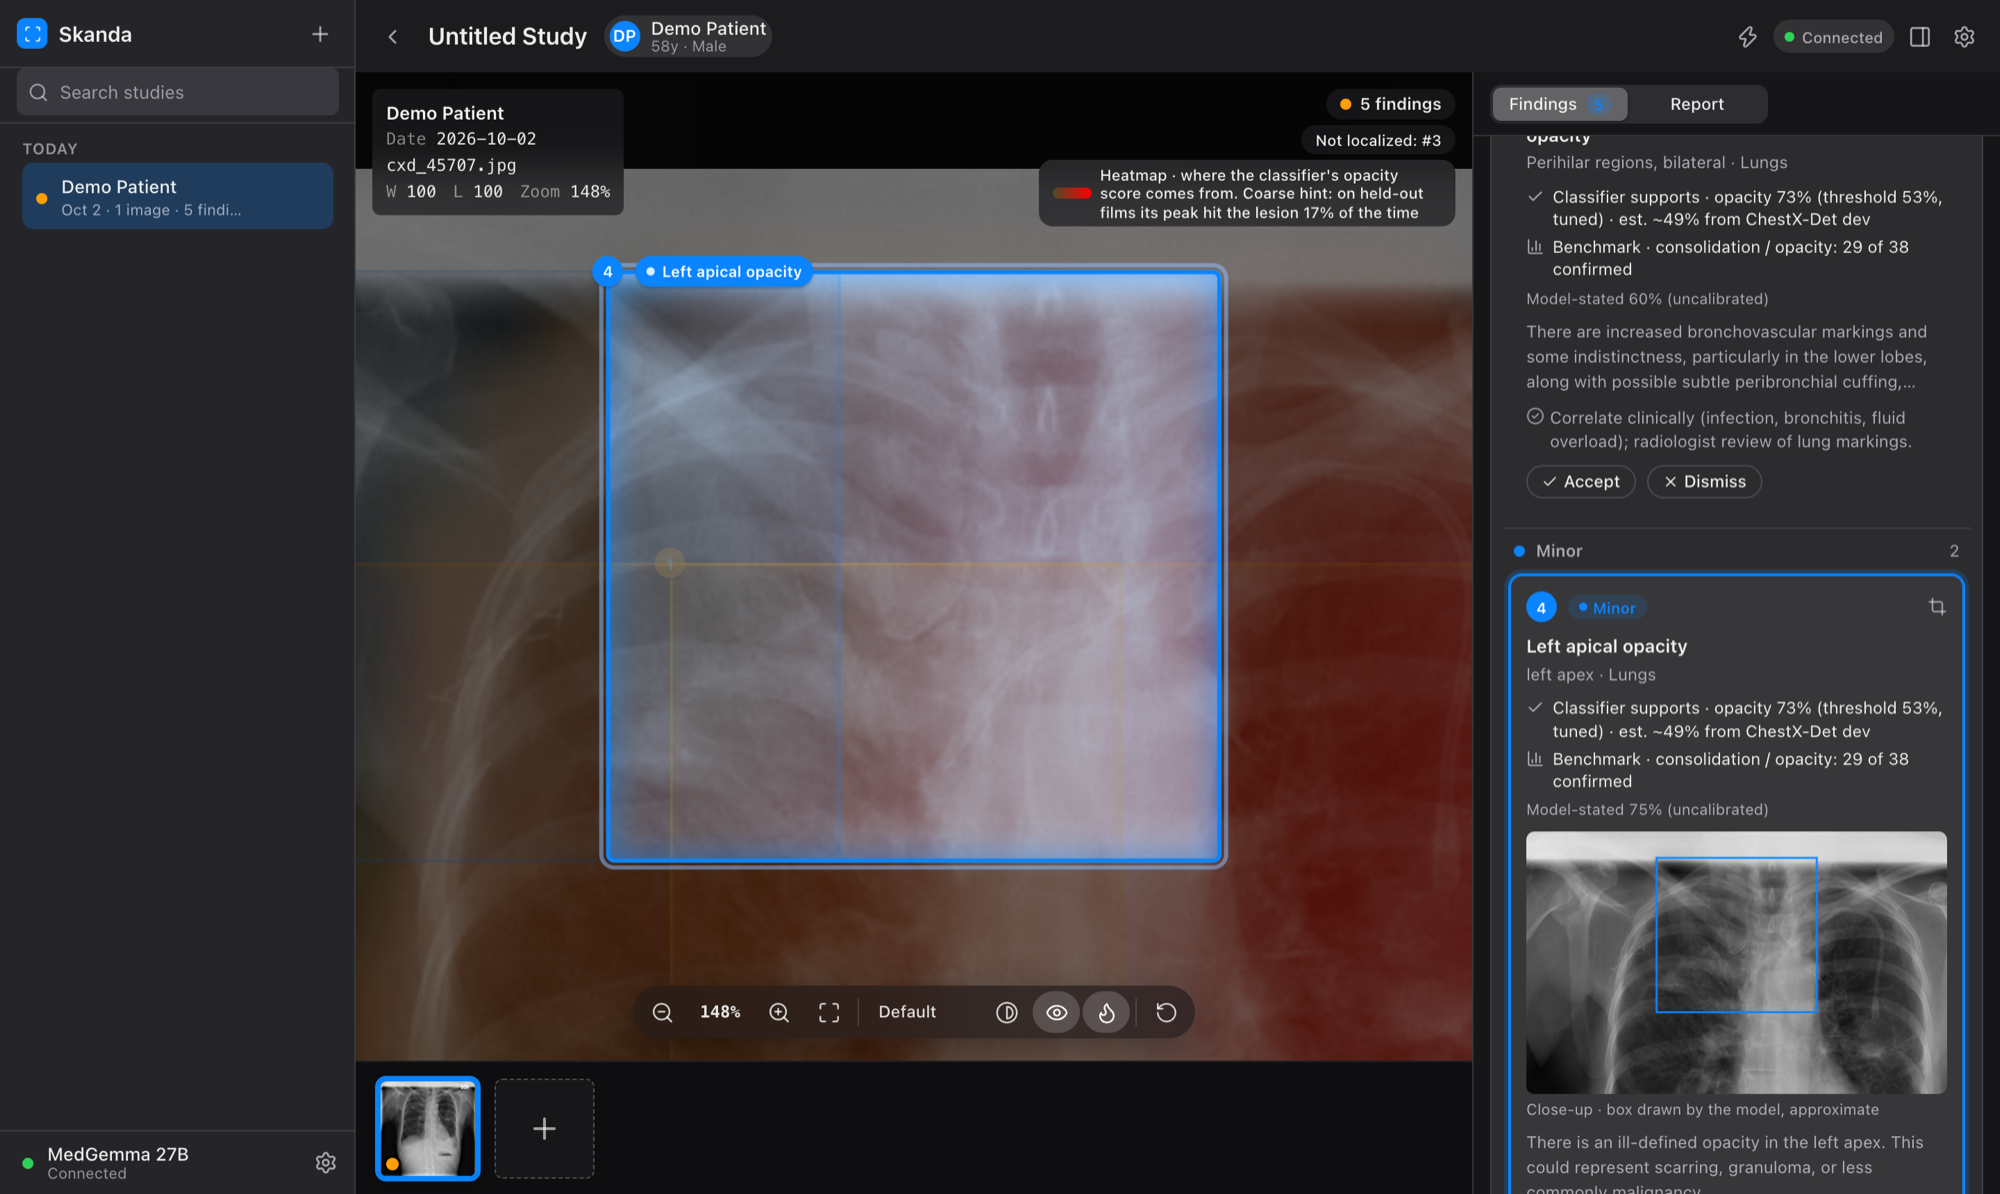
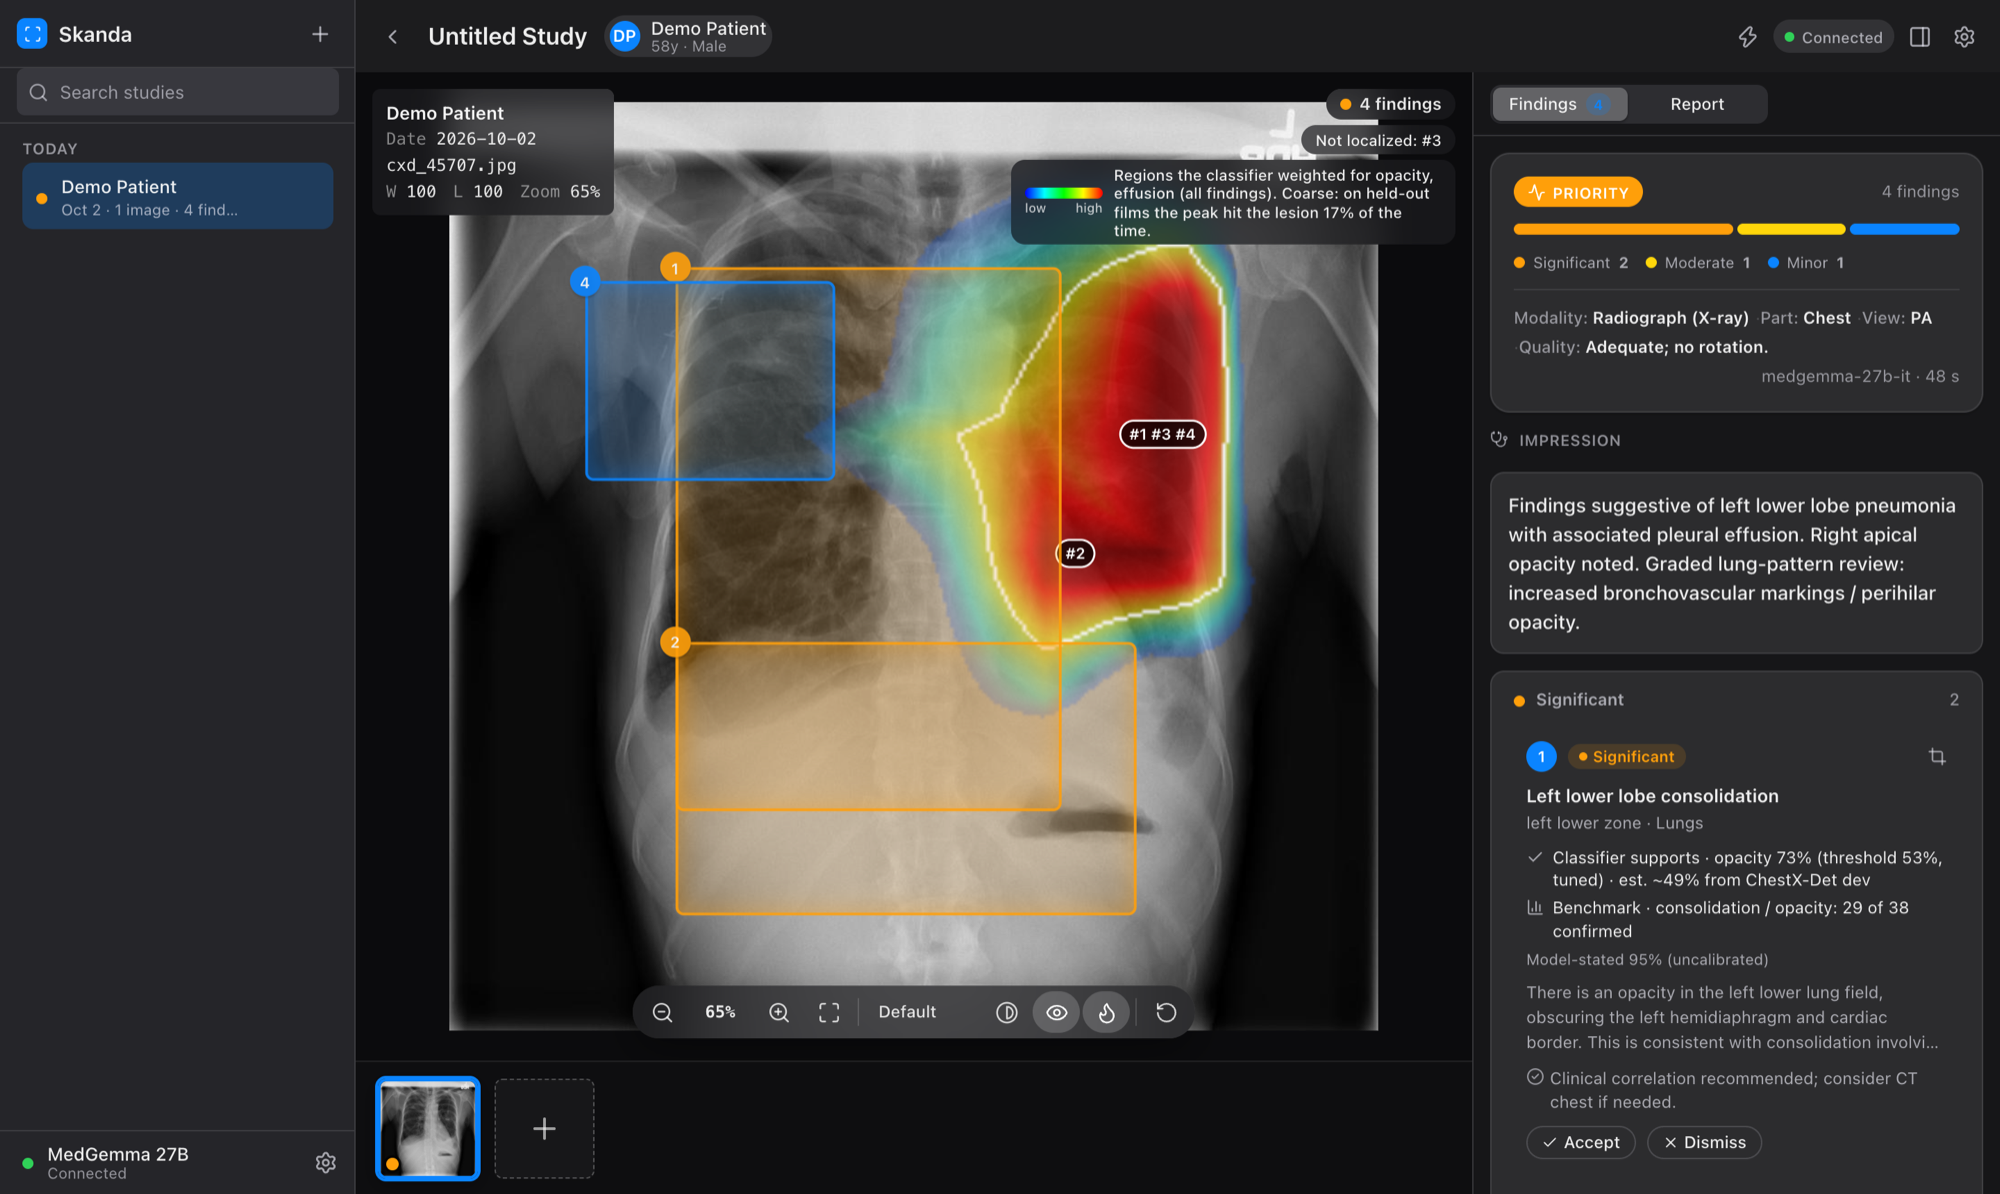
Heatmap on the X-ray: jet colour map, outlined hot regions, labelled peaks
- Viewer paints the classifier heatmap over the film in a jet colour map,
  cold areas clear, hot regions outlined, each type's peak labelled with
  its finding numbers; all findings combined, or the selected one; on by
  default (H toggles). Overlays cached as images, so hover/pan stay cheap.
- txrv_server rescales each map so the in-lung median is zero, leaving the
  stronger half as heat; the peak (localise.py: 26/152, 17%) is unchanged.
- Grad-CAM at denseblock3 tested and not adopted (dev 26% vs 28% for CAM).
- README screenshot and text updated.

diff --git a/app/src/components/viewer/ImageViewer.tsx b/app/src/components/viewer/ImageViewer.tsx
@@ -203,9 +203,10 @@ export function ImageViewer() {
 
   const focusId = selectedId ?? hoveredId
   const focusFinding = findings.find((f) => f.id === focusId)
-  const heatKind = focusFinding?.classifier?.prob != null ? focusFinding.classifier.kind : null
-  const heat = viewer.showHeatmap && heatKind ? analysis?.heatmaps?.[heatKind] : undefined
   const hasHeatmaps = !!analysis?.heatmaps && Object.keys(analysis.heatmaps).length > 0
+  // The selected (or hovered) finding's region, or every abnormal finding's region when nothing is selected.
+  const heatSources = viewer.showHeatmap && hasHeatmaps ? heatmapSources(findings, focusFinding, analysis?.heatmaps ?? {}) : []
+  const heatKinds = [...new Set(heatSources.map((h) => h.kind))]
   const view = image.analysis?.view ?? ''
   const showLat = /\b(PA|AP|posteroanterior|anteroposterior)\b/i.test(view)
   const presetId =
@@ -253,7 +254,7 @@ export function ImageViewer() {
           }}
         />
         {showLat && <div className="vw-lat">R</div>}
-        {heat && <HeatmapLayer heat={heat} />}
+        {heatSources.length > 0 && <HeatmapLayer sources={heatSources} />}
         {viewer.showOverlay && (
           <div className="vw-overlays">
             {/* Larger boxes first so smaller (nested) boxes stay on top and clickable. */}
@@ -312,10 +313,16 @@ export function ImageViewer() {
           )}
           {viewer.showHeatmap && hasHeatmaps && (
             <div className="vw-legend vw-legend-heat">
-              <span className="vw-heat-ramp" aria-hidden="true" />
-              {heat
-                ? `Heatmap · where the classifier's ${heatKind} score comes from. Coarse hint: on held-out films its peak hit the lesion 17% of the time`
-                : 'Heatmap · select a finding the classifier covers'}
+              <span className="vw-heat-scale" aria-hidden="true">
+                <span className="vw-heat-ramp" />
+                <span className="vw-heat-ends"><span>low</span><span>high</span></span>
+              </span>
+              <span>
+                {heatKinds.length
+                  ? `Regions the classifier weighted for ${heatKinds.join(', ')}${focusFinding ? '' : ' (all findings)'}. `
+                  : 'No classifier region for this finding type. '}
+                Coarse: on held-out films the peak hit the lesion 17% of the time.
+              </span>
             </div>
           )}
           {viewer.showOverlay && counts.flagged > 0 && (
@@ -440,33 +447,129 @@ function FindingBox({
   )
 }
 
-/** Classifier heatmap drawn over the classifier's crop of the image; low values stay transparent. */
-function HeatmapLayer({ heat }: { heat: Heatmap }) {
-  const ref = useRef<HTMLCanvasElement>(null)
-  useEffect(() => {
-    const ctx = ref.current?.getContext('2d')
-    if (!ctx) return
-    const bytes = Uint8Array.from(atob(heat.data), (c) => c.charCodeAt(0))
-    const img = ctx.createImageData(heat.w, heat.h)
-    for (let i = 0; i < bytes.length; i++) {
-      const v = bytes[i] / 255
-      const t = Math.max(0, (v - 0.3) / 0.7) // keep the cold majority of the film clear
-      img.data[i * 4] = 255
-      img.data[i * 4 + 1] = Math.round(220 * (1 - t))
-      img.data[i * 4 + 2] = 0
-      img.data[i * 4 + 3] = Math.round(190 * t)
+interface HeatSource {
+  kind: string
+  heat: Heatmap
+  /** Finding numbers (as drawn on the boxes) of this type, for the peak marker. */
+  numbers: number[]
+}
+
+/** Heatmaps to draw: the focused finding's type, or every abnormal, non-dismissed finding's type. */
+function heatmapSources(findings: Finding[], focus: Finding | undefined, maps: Record<string, Heatmap>): HeatSource[] {
+  const pool = focus ? [focus] : findings.filter((f) => f.severity !== 'normal' && !isExcluded(f))
+  const byKind = new Map<string, HeatSource>()
+  for (const f of pool) {
+    const kind = f.classifier?.prob != null ? f.classifier.kind : null
+    const heat = kind ? maps[kind] : undefined
+    if (!kind || !heat) continue
+    const n = findings.indexOf(f) + 1
+    const cur = byKind.get(kind)
+    if (cur) cur.numbers.push(n)
+    else byKind.set(kind, { kind, heat, numbers: [n] })
+  }
+  return [...byKind.values()]
+}
+
+const HEAT_RES = 256 // smoothed canvas resolution; the maps themselves are coarse (7×7 → 32×32)
+const HEAT_FLOOR = 0.2 // below this the film stays clear
+const HEAT_CONTOUR = 0.6 // outline of the hot region
+
+/** Jet colour map, t in 0..1 → [r, g, b]. */
+function jet(t: number): [number, number, number] {
+  const c = (x: number) => Math.round(255 * Math.min(1, Math.max(0, x)))
+  return [c(1.5 - Math.abs(4 * t - 3)), c(1.5 - Math.abs(4 * t - 2)), c(1.5 - Math.abs(4 * t - 1))]
+}
+
+/** Bilinear upsample of one map to HEAT_RES², normalised to its own peak. Cached per map (maps live in the store). */
+const upsampled = new WeakMap<Heatmap, Float32Array>()
+function upsample(heat: Heatmap): Float32Array {
+  const hit = upsampled.get(heat)
+  if (hit) return hit
+  const src = Uint8Array.from(atob(heat.data), (ch) => ch.charCodeAt(0))
+  const out = new Float32Array(HEAT_RES * HEAT_RES)
+  for (let y = 0; y < HEAT_RES; y++) {
+    const fy = Math.min(heat.h - 1, Math.max(0, ((y + 0.5) / HEAT_RES) * heat.h - 0.5))
+    const y0 = Math.floor(fy), y1 = Math.min(heat.h - 1, y0 + 1), wy = fy - y0
+    for (let x = 0; x < HEAT_RES; x++) {
+      const fx = Math.min(heat.w - 1, Math.max(0, ((x + 0.5) / HEAT_RES) * heat.w - 0.5))
+      const x0 = Math.floor(fx), x1 = Math.min(heat.w - 1, x0 + 1), wx = fx - x0
+      const v =
+        (src[y0 * heat.w + x0] * (1 - wx) + src[y0 * heat.w + x1] * wx) * (1 - wy) +
+        (src[y1 * heat.w + x0] * (1 - wx) + src[y1 * heat.w + x1] * wx) * wy
+      out[y * HEAT_RES + x] = v / 255
     }
-    ctx.putImageData(img, 0, 0)
-  }, [heat])
-  const { x, y, w, h } = heat.extent
+  }
+  upsampled.set(heat, out)
+  return out
+}
+
+/** Peak of one map, in the map's 0–1 coordinates. Cached per map. */
+const peaks = new WeakMap<Heatmap, { x: number; y: number }>()
+function peakOf(heat: Heatmap): { x: number; y: number } {
+  const hit = peaks.get(heat)
+  if (hit) return hit
+  const v = upsample(heat)
+  let best = 0
+  for (let i = 1; i < v.length; i++) if (v[i] > v[best]) best = i
+  const p = { x: ((best % HEAT_RES) + 0.5) / HEAT_RES, y: (Math.floor(best / HEAT_RES) + 0.5) / HEAT_RES }
+  peaks.set(heat, p)
+  return p
+}
+
+/** The combined overlay as a PNG data URL, cached by the maps it combines (hover and pan re-render the viewer). */
+const overlays = new Map<string, string>()
+function overlayUrl(sources: HeatSource[]): string {
+  const key = sources.map((s) => `${s.kind}:${s.heat.data}`).join('|')
+  const hit = overlays.get(key)
+  if (hit) return hit
+  const v = new Float32Array(HEAT_RES * HEAT_RES)
+  for (const s of sources) {
+    const m = upsample(s.heat)
+    for (let i = 0; i < v.length; i++) v[i] = Math.max(v[i], m[i])
+  }
+  const canvas = document.createElement('canvas')
+  canvas.width = canvas.height = HEAT_RES
+  const ctx = canvas.getContext('2d')!
+  const img = ctx.createImageData(HEAT_RES, HEAT_RES)
+  for (let i = 0; i < v.length; i++) {
+    const t = v[i]
+    const x = i % HEAT_RES
+    const y = Math.floor(i / HEAT_RES)
+    // Contour: a hot pixel next to a cooler one.
+    const edge =
+      t >= HEAT_CONTOUR &&
+      ((x > 0 && v[i - 1] < HEAT_CONTOUR) || (x < HEAT_RES - 1 && v[i + 1] < HEAT_CONTOUR) ||
+        (y > 0 && v[i - HEAT_RES] < HEAT_CONTOUR) || (y < HEAT_RES - 1 && v[i + HEAT_RES] < HEAT_CONTOUR))
+    const [r, g, b] = edge ? [255, 255, 255] : jet(t)
+    img.data[i * 4] = r
+    img.data[i * 4 + 1] = g
+    img.data[i * 4 + 2] = b
+    img.data[i * 4 + 3] = edge ? 230 : t < HEAT_FLOOR ? 0 : Math.round(60 + 130 * ((t - HEAT_FLOOR) / (1 - HEAT_FLOOR)))
+  }
+  ctx.putImageData(img, 0, 0)
+  const url = canvas.toDataURL()
+  if (overlays.size > 40) overlays.delete(overlays.keys().next().value!)
+  overlays.set(key, url)
+  return url
+}
+
+/**
+ * Classifier heatmap painted over the X-ray in a jet colour map (cold = clear), hot regions outlined, and the
+ * finding numbers at each type's peak. All maps cover the classifier's centre crop (same extent for one image).
+ */
+function HeatmapLayer({ sources }: { sources: HeatSource[] }) {
+  const { x, y, w, h } = sources[0].heat.extent
   return (
-    <canvas
-      ref={ref}
-      className="vw-heat"
-      width={heat.w}
-      height={heat.h}
-      aria-hidden="true"
-      style={{ left: `${x * 100}%`, top: `${y * 100}%`, width: `${w * 100}%`, height: `${h * 100}%` }}
-    />
+    <div className="vw-heat" style={{ left: `${x * 100}%`, top: `${y * 100}%`, width: `${w * 100}%`, height: `${h * 100}%` }} aria-hidden="true">
+      <img src={overlayUrl(sources)} alt="" draggable={false} />
+      {sources.map((s) => {
+        const p = peakOf(s.heat)
+        return (
+          <span key={s.kind} className="vw-heat-peak" style={{ left: `${p.x * 100}%`, top: `${p.y * 100}%` }}>
+            {s.numbers.map((n) => `#${n}`).join(' ')}
+          </span>
+        )
+      })}
+    </div>
   )
 }

diff --git a/app/src/components/viewer/viewer.css b/app/src/components/viewer/viewer.css
@@ -584,7 +584,21 @@
 .vw-canvas.vw-anim { transition: width 240ms var(--ease-out), height 240ms var(--ease-out), transform 240ms var(--ease-out); }
 @media (prefers-reduced-motion: reduce) { .vw-canvas.vw-anim { transition: none; } }
 
-/* Classifier heatmap: under the finding boxes, smoothed by the browser's upscaling. */
-.vw-heat { position: absolute; pointer-events: none; mix-blend-mode: screen; opacity: 0.85; }
-.vw-legend-heat { display: flex; align-items: center; gap: 6px; max-width: 300px; white-space: normal; text-align: left; border-radius: 10px; }
-.vw-heat-ramp { flex: none; width: 28px; height: 8px; border-radius: 4px; background: linear-gradient(90deg, rgba(255, 220, 0, 0.15), rgb(255, 0, 0)); }
+/* Classifier heatmap over the X-ray: jet colour map, cold areas clear, hot regions outlined, peaks numbered. */
+.vw-heat { position: absolute; pointer-events: none; }
+.vw-heat img { width: 100%; height: 100%; display: block; }
+.vw-heat-peak {
+  position: absolute;
+  transform: translate(-50%, -50%);
+  padding: 1px 6px;
+  border-radius: 999px;
+  background: rgba(0, 0, 0, 0.72);
+  color: #fff;
+  font: 600 11px/1.4 var(--font-sans);
+  white-space: nowrap;
+  box-shadow: 0 0 0 1.5px #fff;
+}
+.vw-legend-heat { display: flex; align-items: center; gap: 8px; max-width: 320px; white-space: normal; text-align: left; border-radius: 10px; }
+.vw-heat-scale { flex: none; display: flex; flex-direction: column; gap: 2px; width: 56px; }
+.vw-heat-ramp { height: 8px; border-radius: 4px; background: linear-gradient(90deg, #00f, #0ff, #0f0, #ff0, #f00); }
+.vw-heat-ends { display: flex; justify-content: space-between; font-size: 9px; opacity: 0.8; }

diff --git a/app/src/store.ts b/app/src/store.ts
@@ -37,7 +37,7 @@ export const DEFAULT_VIEWER: ViewerState = {
   contrast: 100,
   invert: false,
   showOverlay: true,
-  showHeatmap: false,
+  showHeatmap: true,
 }
 
 export const emptyPatient = (): PatientInfo => ({

diff --git a/app/server/txrv_server.py b/app/server/txrv_server.py
@@ -183,9 +183,13 @@ def heatmaps(image_bytes: bytes, kinds) -> dict:
     for kind, maps in acc.items():
         cam = F.interpolate(torch.stack(maps).mean(0)[None, None], size=(224, 224), mode="bilinear", align_corners=False)[0, 0]
         mask = heart if kind == "cardiomegaly" else lungs
+        inside = torch.ones_like(cam, dtype=torch.bool)
         if mask is not None and mask.any():
-            grown = F.max_pool2d(mask[None, None].float(), 23, stride=1, padding=11)[0, 0] > 0  # ~5% margin
-            cam = cam * grown
+            inside = F.max_pool2d(mask[None, None].float(), 23, stride=1, padding=11)[0, 0] > 0  # ~5% margin
+        # Rescale so the median inside the lungs is 0: only the stronger half of the region shows as heat. The
+        # peak (what benchmark/localise.py scores) is unchanged.
+        low = cam[inside].median()
+        cam = ((cam - low) / (cam[inside].max() - low + 1e-6)).clamp(min=0) * inside
         cam = F.adaptive_avg_pool2d(cam[None, None], HEAT)[0, 0]
         cam = (cam / (cam.max() + 1e-6) * 255).round().clamp(0, 255).to(torch.uint8)
         out[kind] = {"w": HEAT, "h": HEAT, "data": base64.b64encode(cam.numpy().tobytes()).decode(), "extent": extent}

diff --git a/README.md b/README.md
@@ -36,7 +36,7 @@ cross-checked by an independent classifier, and drafted into a signable radiolog
 |---|---|
 | 📥 **Intake** | Drag & drop anywhere, paste (⌘V) or file picker. PNG, JPEG, WebP and uncompressed DICOM (correct tag parsing, BitsStored, MONOCHROME1, window/level, downscaling). |
 | 🔬 **Diagnostic viewer** | Zoom/pan, window-level (right/⌥-drag) with Lung / Bone / Soft-tissue presets, invert, keyboard shortcuts, numbered severity-coloured boxes linked to the findings list, "not localized" legend. |
-| 🎯 **Localised view** | Selecting a finding zooms the viewer onto its box (Esc returns to the whole film) and its card shows a close-up crop. Optional classifier **heatmap** (H) for the selected finding type, labelled with its measured accuracy. Boxes and heatmaps are approximate: see [localisation](#localisation-held-out). |
+| 🎯 **Localised view** | Classifier **heatmap** painted on the X-ray (jet colour map, hot regions outlined, peaks labelled with finding numbers): all findings at once, or the selected one; **H** toggles it. Selecting a finding zooms the viewer onto its box (Esc returns to the whole film) and its card shows a close-up crop. Boxes and heatmaps are approximate: see [localisation](#localisation-held-out). |
 | 🧠 **Analysis** | Staged progress with ETA (reading → lung-pattern → cross-check → second reader), urgency, severity breakdown, impression, pertinent negatives, differential. A failed or truncated read is shown as an error, never as "normal". |
 | 🛡 **Cross-check** | Every finding is checked by a local [TorchXRayVision](https://github.com/mlmed/torchxrayvision) classifier (~0.1 s) with per-class thresholds tuned on held-out data. Unsupported findings stay in, drawn dashed and marked **unconfirmed**; the draft words them as *possible*. |
 | 🔬 **Second reader** | Optional [MAIRA-2](https://huggingface.co/microsoft/maira-2) service adds effusion, nodule/mass and atelectasis findings MedGemma missed, only where the classifier agrees. On held-out films: right finding type 41% → 47%, effusion 30% → 53%. |
@@ -77,8 +77,8 @@ Real runs of the current app on this Mac (Oct 2026), using ChestX-Det test films
 <p><b>Zoom to finding.</b> Selecting a finding zooms and centres the viewer on its box (here 65% → 148%), and the expanded card shows a close-up. Esc returns to the whole film.</p>
 </td>
 <td width="50%" valign="top">
-<img src="docs/screenshots/heatmap.png" alt="Classifier heatmap overlay with its accuracy caveat">
-<p><b>Classifier heatmap (H).</b> Where the classifier's score for the selected finding type comes from, kept to the lungs. The legend states its held-out accuracy (17%). In this capture MedGemma's "left apical opacity" box sits over the mediastinum rather than the left apex: localisation is the weakest part of the system, so both are hints to look, not answers.</p>
+<img src="docs/screenshots/heatmap.png" alt="Classifier heatmap on the X-ray: a red hotspot outlined in white over the patient's left lung, labelled with finding numbers">
+<p><b>Heatmap on the X-ray.</b> The regions the classifier weighted for each finding type, kept to the lungs and shown on by default: the hotspot (outlined) is labelled with the findings it belongs to (#1 #3 #4 opacity, #2 effusion). Here it sits over the patient's left mid–lower lung, overlapping the radiologists' consolidation box. Coarse: on held-out films the peak hit the lesion 17% of the time, so it says where to look, not where the lesion is.</p>
 </td>
 </tr>
 <tr>
@@ -311,7 +311,7 @@ The first start downloads three DenseNet classifiers (~85 MB) and, on the first 
 
 1. **New Study** (⌘N) → add patient details (age, sex, clinical indication improve the read).
 2. Drop a chest X-ray (PNG, JPEG, WebP or uncompressed DICOM) onto the viewer → **Analyze Image**. A read takes ~55–90 s.
-3. Click a finding to zoom onto it (Esc for the whole film; **H** toggles the heatmap). **Accept** or **Dismiss** it. Dashed boxes are *unconfirmed* by the classifier.
+3. The heatmap shows the weighted regions for all findings; click a finding to zoom onto it and see only its region (Esc for the whole film; **H** toggles the heatmap). **Accept** or **Dismiss** it. Dashed boxes are *unconfirmed* by the classifier.
 4. **Report** tab → **Draft Report** (~40 s) → edit → **Sign**. **Preview & Print / PDF** for the A4 report.
 
 No X-ray to hand? The benchmark films are public: `cd benchmark && python3 fetch.py chestxdet` downloads 217 radiologist-labelled films into `benchmark/img/` (labels in `manifest-cxd.json`).
